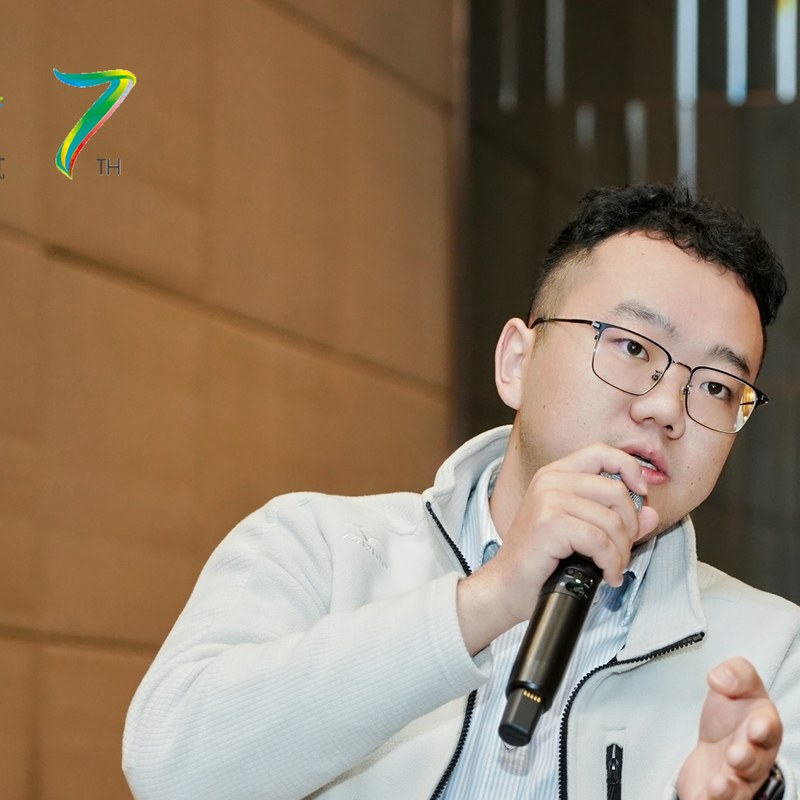
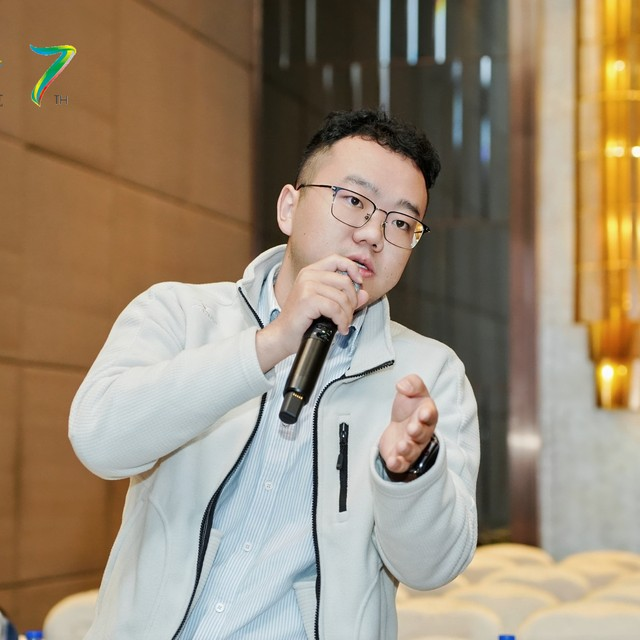
FLIP preview

diff --git a/content/en/team/index.md b/content/en/team/index.md
@@ -31,18 +31,18 @@ date: 2026-10-09
 ### Current {#members}
 
 <div class="flip-students not-prose">
-{{< student name="Qin Ziyi" deg="Ph.D. student" >}}Mechanistic models for gas–liquid two-phase flow in wellbores and pipelines; intelligent diagnosis of abnormal production in shale-gas and plunger-lift wells{{< /student >}}
-{{< student name="Wu Yuxi" deg="Ph.D. student" >}}One-dimensional mechanistic head model and CFD for ESP oil–gas(–water) multiphase flow{{< /student >}}
+{{< student name="Qin Ziyi" deg="Ph.D. student" photo="uploads/students/qinziyi.jpg" >}}Mechanistic models for gas–liquid two-phase flow in wellbores and pipelines; intelligent diagnosis of abnormal production in shale-gas and plunger-lift wells{{< /student >}}
+{{< student name="Wu Yuxi" deg="Ph.D. student" photo="uploads/students/wuyuxi.jpg" >}}One-dimensional mechanistic head model and CFD for ESP oil–gas(–water) multiphase flow{{< /student >}}
 {{< student name="Jia Hao" deg="Ph.D. student" photo="uploads/students/jiahao.jpg" >}}uranium in-situ leaching equipment, artificial lift, etc.{{< /student >}}
-{{< student name="Nan Zibin" deg="Master's student" >}}Gas–liquid multiphase CFD and structural optimization of all-metal single-screw pumps{{< /student >}}
-{{< student name="Cheng Yuni" deg="Master's student" >}}Dynamic response of FLNG liquefaction modules under multi-source coupled excitation{{< /student >}}
-{{< student name="Li Jianing" deg="Master's student" >}}Transient gas–liquid two-phase flow in pipelines: drift-flux model and X-PINN reconstruction{{< /student >}}
-{{< student name="Li Jinhua" deg="Master's student" >}}CFD of oil–water and gas–liquid two-phase flow in ESPs (VOF, emulsification){{< /student >}}
-{{< student name="Qin Shengjie" deg="Master's student" >}}Hydraulic design and automated CFD optimization of wide-range offshore ESP impellers and diffusers{{< /student >}}
-{{< student name="Yu Quan" deg="Master's student" >}}Minute-scale production-data diagnosis of abnormal conditions in shale-gas wells{{< /student >}}
-{{< student name="Li Xiaoqian" deg="Master's student" >}}OLGA simulation of intermittent production and liquid unloading in tight-gas wells{{< /student >}}
-{{< student name="Zhuo Jinyang" deg="Master's student" >}}CFD of gas–liquid two-phase flow in ESPs{{< /student >}}
-{{< student name="Zhang Zhenyu" deg="Master's student" >}}CO₂ long-distance pipeline transport modeling{{< /student >}}
+{{< student name="Nan Zibin" deg="Master's student" photo="uploads/students/nanzibin.jpg" >}}Gas–liquid multiphase CFD and structural optimization of all-metal single-screw pumps{{< /student >}}
+{{< student name="Cheng Yuni" deg="Master's student" photo="uploads/students/chengyuni.jpg" >}}Dynamic response of FLNG liquefaction modules under multi-source coupled excitation{{< /student >}}
+{{< student name="Li Jianing" deg="Master's student" photo="uploads/students/lijianing.jpg" >}}Transient gas–liquid two-phase flow in pipelines: drift-flux model and X-PINN reconstruction{{< /student >}}
+{{< student name="Li Jinhua" deg="Master's student" photo="uploads/students/lijinhua.jpg" >}}CFD of oil–water and gas–liquid two-phase flow in ESPs (VOF, emulsification){{< /student >}}
+{{< student name="Qin Shengjie" deg="Master's student" photo="uploads/students/qinshengjie.jpg" >}}Hydraulic design and automated CFD optimization of wide-range offshore ESP impellers and diffusers{{< /student >}}
+{{< student name="Yu Quan" deg="Master's student" photo="uploads/students/yuquan.jpg" >}}Minute-scale production-data diagnosis of abnormal conditions in shale-gas wells{{< /student >}}
+{{< student name="Li Xiaoqian" deg="Master's student" photo="uploads/students/lixiaoqian.jpg" >}}OLGA simulation of intermittent production and liquid unloading in tight-gas wells{{< /student >}}
+{{< student name="Zhuo Jinyang" deg="Master's student" photo="uploads/students/zhuojinyang.jpg" >}}CFD of gas–liquid two-phase flow in ESPs{{< /student >}}
+{{< student name="Zhang Zhenyu" deg="Master's student" photo="uploads/students/zhangzhenyu.jpg" >}}CO₂ long-distance pipeline transport modeling{{< /student >}}
 </div>
 
 ### Co-supervised with Prof. Jianli Wang (Southeast University) {#co-supervised}

diff --git a/content/zh/team/index.md b/content/zh/team/index.md
@@ -31,18 +31,18 @@ date: 2026-10-09
 ### 在读 {#members}
 
 <div class="flip-students not-prose">
-{{< student name="秦孜艺" deg="博士研究生" >}}气井井筒与管道气液两相流机理模型，以及页岩气井、柱塞井生产异常工况的智能诊断{{< /student >}}
-{{< student name="武煜晰" deg="博士研究生" >}}电潜泵油气（水）多相流扬程一维机理模型与 CFD{{< /student >}}
+{{< student name="秦孜艺" deg="博士研究生" photo="uploads/students/qinziyi.jpg" >}}气井井筒与管道气液两相流机理模型，以及页岩气井、柱塞井生产异常工况的智能诊断{{< /student >}}
+{{< student name="武煜晰" deg="博士研究生" photo="uploads/students/wuyuxi.jpg" >}}电潜泵油气（水）多相流扬程一维机理模型与 CFD{{< /student >}}
 {{< student name="贾皓" deg="博士研究生" photo="uploads/students/jiahao.jpg" >}}铀矿地浸装备、人工举升等{{< /student >}}
-{{< student name="南子彬" deg="硕士研究生" >}}全金属单螺杆泵气液混输流场模拟与结构参数优化{{< /student >}}
-{{< student name="程玉妮" deg="硕士研究生" >}}FLNG 液化模块多源耦合激励动力响应{{< /student >}}
-{{< student name="李佳宁" deg="硕士研究生" >}}管道瞬态气液两相流：漂移流模型、X-PINN 重构{{< /student >}}
-{{< student name="李进华" deg="硕士研究生" >}}电潜泵内油水、气液两相流 CFD{{< /student >}}
-{{< student name="秦胜杰" deg="硕士研究生" >}}海上宽幅电潜泵叶轮/导轮水力设计与 CFD 自动优化{{< /student >}}
-{{< student name="余泉" deg="硕士研究生" >}}页岩气井分钟级生产数据异常工况诊断{{< /student >}}
-{{< student name="李晓茜" deg="硕士研究生" >}}致密气井间歇生产排液 OLGA 模拟{{< /student >}}
-{{< student name="卓锦炀" deg="硕士研究生" >}}电潜泵气液两相流 CFD{{< /student >}}
-{{< student name="张圳玙" deg="硕士研究生" >}}CO₂ 长输管道运输模型{{< /student >}}
+{{< student name="南子彬" deg="硕士研究生" photo="uploads/students/nanzibin.jpg" >}}全金属单螺杆泵气液混输流场模拟与结构参数优化{{< /student >}}
+{{< student name="程玉妮" deg="硕士研究生" photo="uploads/students/chengyuni.jpg" >}}FLNG 液化模块多源耦合激励动力响应{{< /student >}}
+{{< student name="李佳宁" deg="硕士研究生" photo="uploads/students/lijianing.jpg" >}}管道瞬态气液两相流：漂移流模型、X-PINN 重构{{< /student >}}
+{{< student name="李进华" deg="硕士研究生" photo="uploads/students/lijinhua.jpg" >}}电潜泵内油水、气液两相流 CFD{{< /student >}}
+{{< student name="秦胜杰" deg="硕士研究生" photo="uploads/students/qinshengjie.jpg" >}}海上宽幅电潜泵叶轮/导轮水力设计与 CFD 自动优化{{< /student >}}
+{{< student name="余泉" deg="硕士研究生" photo="uploads/students/yuquan.jpg" >}}页岩气井分钟级生产数据异常工况诊断{{< /student >}}
+{{< student name="李晓茜" deg="硕士研究生" photo="uploads/students/lixiaoqian.jpg" >}}致密气井间歇生产排液 OLGA 模拟{{< /student >}}
+{{< student name="卓锦炀" deg="硕士研究生" photo="uploads/students/zhuojinyang.jpg" >}}电潜泵气液两相流 CFD{{< /student >}}
+{{< student name="张圳玙" deg="硕士研究生" photo="uploads/students/zhangzhenyu.jpg" >}}CO₂ 长输管道运输模型{{< /student >}}
 </div>
 
 ### 与东南大学王建立教授共同培养 {#co-supervised}
